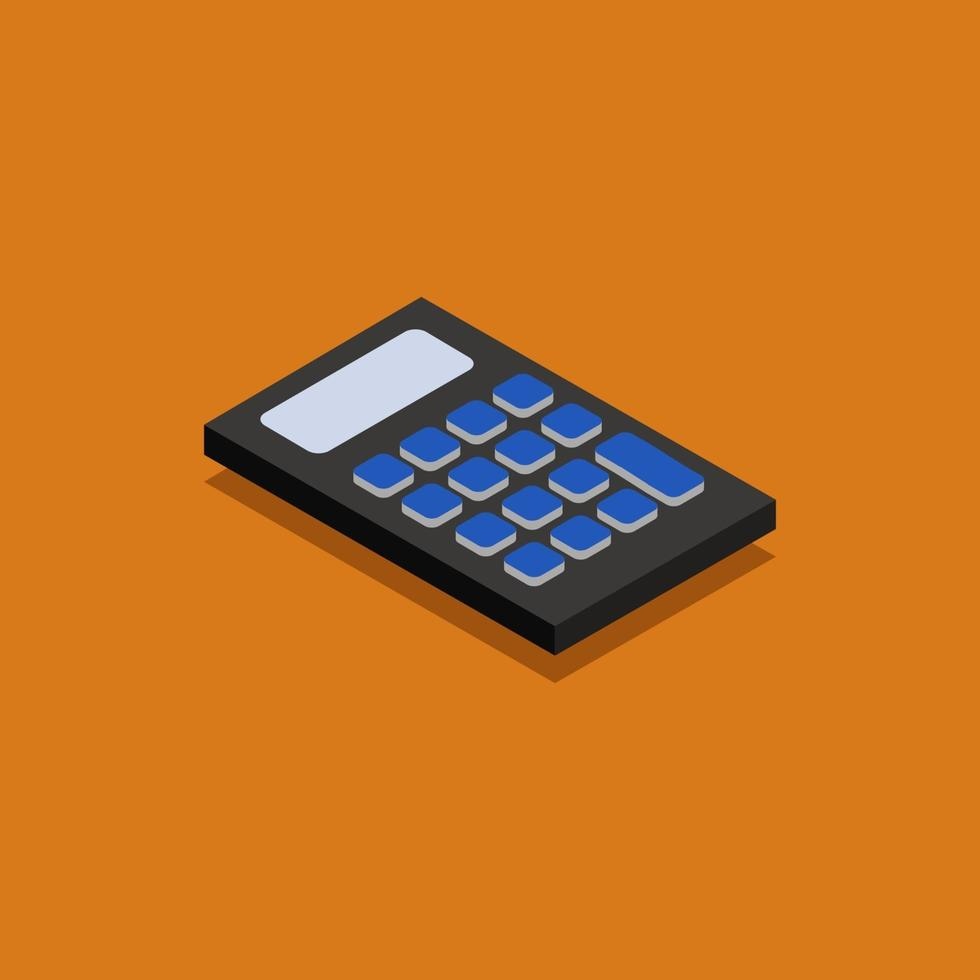
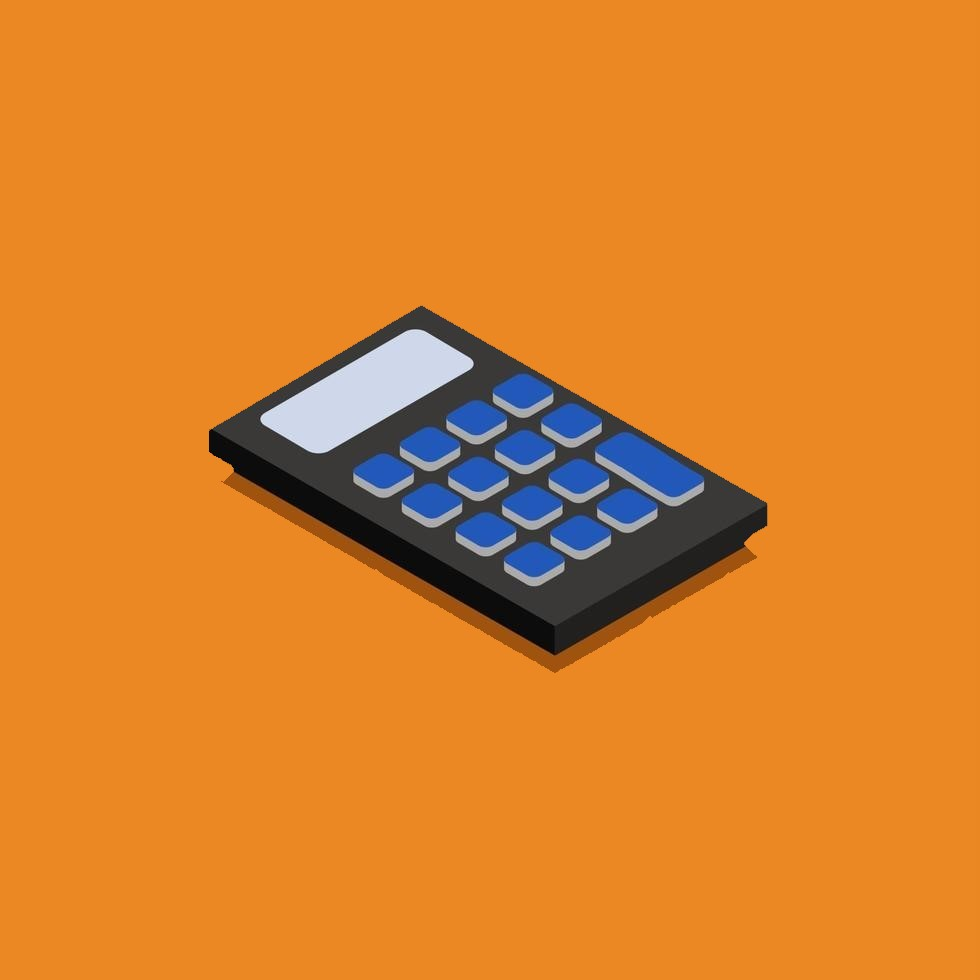
Add files via upload

diff --git a/style.css b/style.css
@@ -12,18 +12,20 @@ body{
 #valor2, #apostar0{
     background-color: white;
     padding: 2.25px;
-    padding-top: 3px;
-    padding-bottom: 3px;
     margin-left: 4px;
     display: inline-block;
     width: 95.5px;
     color: black;
     border-radius: 20px;
+    border-top: 2px solid black;
+    border-left: 2px solid black;
+    border-right: 2px solid gray;
+    border-bottom: 2px solid gray;
 
 }
 
 header{
-    background-color:  rgb(216, 122, 26);
+    background-color: rgb(235, 135, 35);
     width: 100%;
     padding-top: 20px;
     padding-bottom: 20px;
@@ -243,11 +245,11 @@ footer{
     }
 
     input{
-        width: 80px;
+        width: 60px;
     }
 
     #valor2, #apostar0{
-        width: 83.5px;
+        width: 63.5px;
     }
 
     .c1{
@@ -255,6 +257,9 @@ footer{
     }
     .c2{
         width: 50px;
+    }
+    .c3{
+        width: 90px;
     }
 
 }
